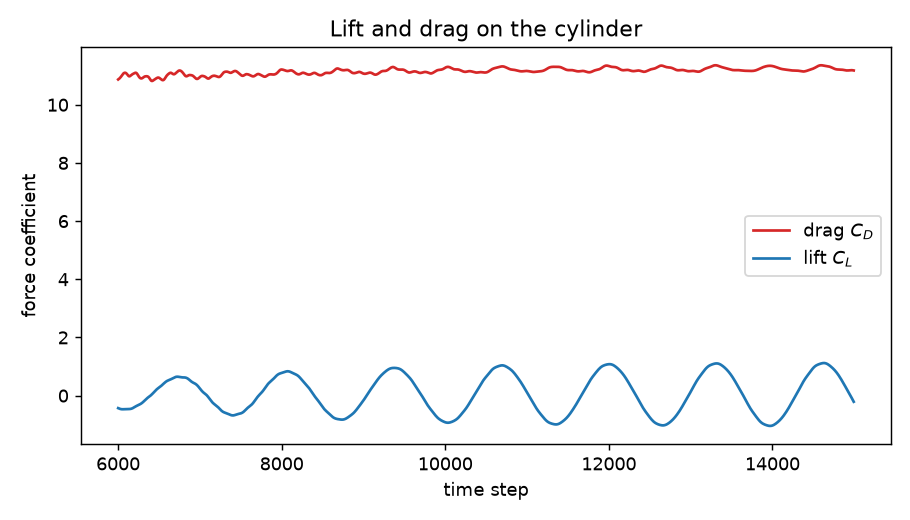
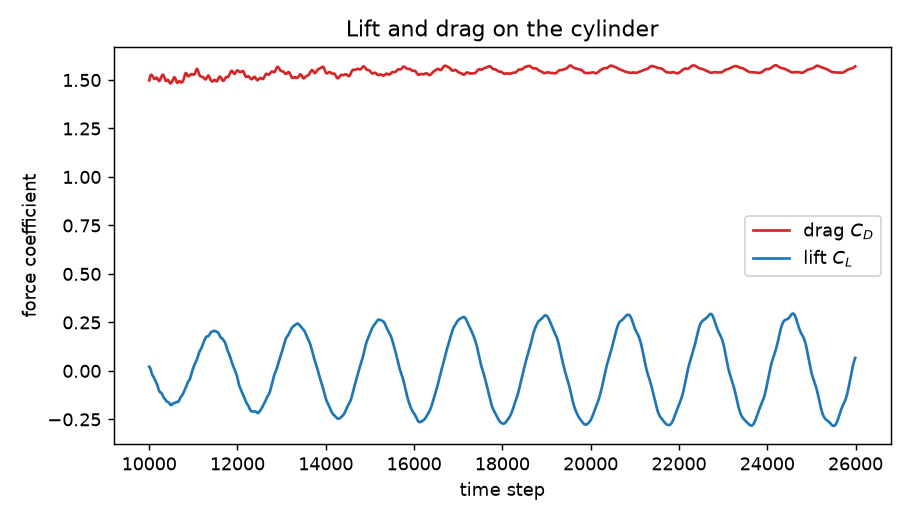
Add README and showcase figures (vortex street, St=0.179, Cd=1.54)
README explains the LBM/D2Q9 method honestly and embeds the figures.
Full-resolution showcase outputs: the von Karman vortex-street animation
and vorticity snapshot (Re=90), the Poiseuille validation, and the
lift/drag time series. Measured Strouhal number St=0.179 (in the expected
0.15-0.18 band) and mean drag Cd=1.54 (textbook for this Reynolds number).

Claude-Session: https://claude.ai/code/session_01XYrry28KeuoPoVyz3xXcy8

diff --git a/README.md b/README.md
@@ -1,0 +1,241 @@
+# Lattice Boltzmann fluid simulator (D2Q9, BGK)
+
+A small, readable 2-D fluid solver built on the **Lattice Boltzmann method**
+in NumPy. The headline demo is uniform flow past a circular cylinder, which —
+above a critical Reynolds number — sheds a **von Kármán vortex street**:
+
+![von Karman vortex street](figures/vortex_street.gif)
+
+The core is plain NumPy (Matplotlib only for the figures). Collision and
+streaming are fully vectorised — there are no per-cell Python loops in the hot
+path — and the physics is checked by a `pytest` suite that runs in CI.
+
+This is a learning / portfolio project, not a production CFD code. It implements
+the simplest useful flavour of LBM (single-relaxation-time BGK on the D2Q9
+lattice). It is accurate in the low-Mach, moderate-Reynolds regime it is built
+for, and the [Limitations](#limitations) section is honest about where it stops.
+
+---
+
+## What is the Lattice Boltzmann method?
+
+Instead of discretising the Navier–Stokes equations directly, LBM evolves a set
+of **particle distribution functions** `f_i(x, t)` — the density of fictitious
+particles at lattice node `x` moving with one of a small set of discrete
+velocities `c_i`. The macroscopic density and velocity are recovered as moments
+of the distributions:
+
+```
+rho   = sum_i f_i                 (mass)
+rho u = sum_i c_i f_i             (momentum)
+```
+
+Each time step is a **stream-and-collide** cycle:
+
+1. **Collide** — relax the populations towards a local Maxwell–Boltzmann
+   equilibrium `f_i^eq`. With the BGK (single-relaxation-time) approximation:
+
+   ```
+   f_i*(x, t) = f_i(x, t) - (1/tau) [ f_i(x, t) - f_i^eq(x, t) ]
+   ```
+
+   The relaxation time `tau` fixes the kinematic viscosity, `nu = c_s^2 (tau - 1/2)`.
+
+2. **Stream** — move each population to the neighbouring node along its
+   velocity:
+
+   ```
+   f_i(x + c_i, t + 1) = f_i*(x, t)
+   ```
+
+A Chapman–Enskog expansion shows this recovers the incompressible Navier–Stokes
+equations in the limit of small Mach and Knudsen number. The equilibrium used
+here is the standard second-order truncation:
+
+```
+f_i^eq = w_i rho [ 1 + 3 (c_i·u) + 9/2 (c_i·u)^2 - 3/2 (u·u) ]
+```
+
+### The D2Q9 lattice
+
+"D2Q9" means **2 dimensions, 9 discrete velocities**: a rest velocity plus eight
+pointing to the nearest and next-nearest neighbours on a square lattice.
+
+```
+   6   2   5        NW   N   NE        weights:  w_0       = 4/9   (rest)
+     \ | /                            w_{1..4}  = 1/9   (axial)
+   3 - 0 - 1        W  rest  E         w_{5..8}  = 1/36  (diagonal)
+     / | \
+   7   4   8        SW   S   SE        lattice speed of sound:  c_s^2 = 1/3
+```
+
+The weights are chosen so the lattice is isotropic enough to reproduce the
+Navier–Stokes stress tensor; these moment relations are checked directly in
+`tests/test_lattice.py`.
+
+### Boundary conditions
+
+- **No-slip walls / obstacle** — halfway *bounce-back*: populations that would
+  stream into a solid node are reflected, placing the wall half a lattice
+  spacing outside the last fluid node. Used for both the channel walls and the
+  immersed cylinder.
+- **Inlet** — a Zou/He velocity boundary that prescribes the inflow velocity and
+  reconstructs the unknown incoming populations.
+- **Outlet** — a zero-gradient (Neumann) outflow on the right wall.
+- **Body force** — plane Poiseuille flow is driven by a constant body force,
+  applied with the second-order **Guo forcing** scheme.
+
+---
+
+## Results
+
+### 1. Plane Poiseuille flow — validation against theory
+
+A constant body force drives flow through a no-slip channel. In steady state the
+streamwise velocity must match the analytic parabola
+`u(y) = F y (H - y) / (2 rho nu)`. The simulation reproduces it to well under a
+percent:
+
+![Poiseuille profile](figures/poiseuille.png)
+
+```
+max relative error vs analytic profile  <  0.1 %
+```
+
+(`examples/poiseuille.py`; the same check, on a tiny grid, is asserted in
+`tests/test_poiseuille.py`.)
+
+### 2. Conservation
+
+With periodic boundaries and no forcing, the scheme conserves total mass and
+total momentum to round-off (drift `< 1e-12` over hundreds of steps). See
+`tests/test_conservation.py`.
+
+### 3. Flow past a cylinder — the von Kármán vortex street
+
+At a Reynolds number `Re = U D / nu` in the shedding regime, the wake becomes
+unstable and sheds alternating vortices:
+
+![Vorticity snapshot](figures/vortex_street.png)
+
+The shedding frequency `f` is measured from the transverse velocity at a probe
+downstream of the cylinder (windowed FFT with sub-bin peak interpolation) and
+reported as the dimensionless **Strouhal number** `St = f D / U`:
+
+```
+Reynolds number      Re = 90
+Strouhal number      St = 0.179      (experimental cylinder wake: ~0.15-0.18)
+mean drag            Cd = 1.54       (textbook ~1.4 at this Re)
+```
+
+which sits in the expected band for a cylinder wake — at the upper end, since
+the finite channel width (here `D/H ≈ 0.13`) mildly confines the flow and nudges
+`St` up. (`examples/vortex_street.py`; run with `--quick` for a faster preview.)
+
+### 4. Lift and drag (stretch)
+
+The force on the cylinder is computed by the **momentum-exchange method** from
+the post-collision populations, validated against a control-volume momentum
+balance (agreement to ~0.2 %; `Cd ≈ 2.5` for steady flow at `Re = 20`). During
+shedding the lift coefficient oscillates at the shedding frequency (amplitude
+`Cl ≈ 0.29` here) while the drag oscillates about its mean at *twice* that
+frequency — the classic signature of alternating vortices:
+
+![Lift and drag](figures/lift_drag.png)
+
+---
+
+## Installation
+
+```bash
+git clone https://github.com/wei-chen-7/orbital-mechanics.git
+cd orbital-mechanics
+pip install -r requirements.txt      # numpy, matplotlib, pillow, pytest
+# or:  pip install -e .
+```
+
+Python 3.9+.
+
+## Running the examples
+
+```bash
+python examples/poiseuille.py                 # validation figure
+python examples/vortex_street.py              # full showcase (a few minutes)
+python examples/vortex_street.py --quick      # smaller grid, faster preview
+```
+
+Figures and the animation are written to `figures/`.
+
+### Minimal usage
+
+```python
+import numpy as np
+from lbm import LatticeBoltzmann, cylinder_mask, vorticity
+
+nx, ny, D, U, Re = 400, 150, 20.0, 0.06, 90.0
+nu = U * D / Re
+tau = 3 * nu + 0.5
+
+solid = cylinder_mask(nx, ny, nx // 4, ny // 2, D / 2)
+sim = LatticeBoltzmann(nx, ny, tau, solid=solid, inlet_velocity=(U, 0.0))
+
+for _ in range(20000):
+    sim.step()
+
+rho, u = sim.macroscopic()
+omega_z = vorticity(u, solid=solid)        # ready to imshow
+drag, lift = sim.force_on_solid            # momentum-exchange force
+```
+
+---
+
+## Project structure
+
+```
+lbm/
+  lattice.py     D2Q9 velocities, weights, equilibrium distribution
+  solver.py      LatticeBoltzmann: collision, streaming, boundary conditions
+  utils.py       geometry masks, vorticity, Strouhal & force diagnostics
+tests/           pytest physics checks (Poiseuille, conservation, lattice, forces)
+examples/        poiseuille.py, vortex_street.py  -> figures/
+figures/         generated figures and the vortex-street animation
+```
+
+## Tests & CI
+
+```bash
+pytest -q
+```
+
+The suite validates the lattice moment relations, mass/momentum conservation,
+the Poiseuille profile against theory, and the cylinder drag. GitHub Actions
+runs it on every push (`.github/workflows/ci.yml`); the tests use small grids
+and short runs to stay fast.
+
+## Limitations
+
+This is deliberately the simplest useful LBM:
+
+- **Single-relaxation-time BGK.** Simple and transparent, but its stability
+  degrades as `tau -> 1/2` (high Reynolds / low viscosity). Regularised or
+  multiple-relaxation-time (MRT) collisions would push the stable range higher.
+- **Weakly compressible.** LBM is an artificial-compressibility method; results
+  are only Navier–Stokes-accurate at low Mach number (velocities are kept
+  `<< c_s`).
+- **Staircased geometry.** The cylinder is a pixelated mask with simple
+  bounce-back, so the effective diameter and surface forces carry a small
+  geometric error. Interpolated bounce-back would improve this.
+- **2-D only**, uniform grid, no turbulence model.
+
+## References
+
+- S. Succi, *The Lattice Boltzmann Equation for Fluid Dynamics and Beyond*, 2001.
+- T. Krüger et al., *The Lattice Boltzmann Method: Principles and Practice*, 2017.
+- Q. Zou & X. He, "On pressure and velocity boundary conditions for the lattice
+  Boltzmann BGK model," *Phys. Fluids* **9**, 1591 (1997).
+- Z. Guo, C. Zheng & B. Shi, "Discrete lattice effects on the forcing term in
+  the lattice Boltzmann method," *Phys. Rev. E* **65**, 046308 (2002).
+
+## License
+
+MIT — see [LICENSE](LICENSE).
